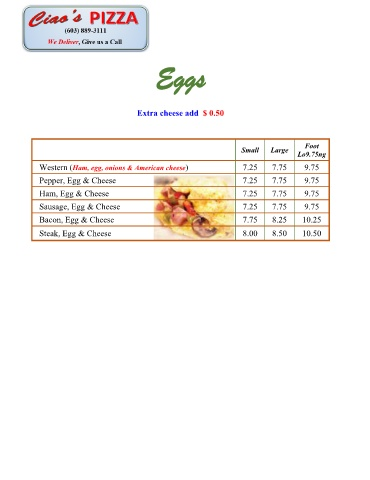
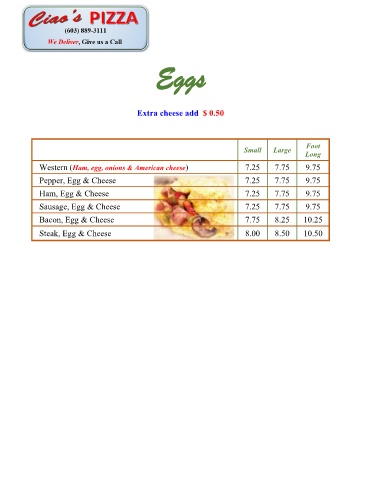
Add files via upload

Changed region(s): [[0.6243, 0.2812, 0.8919, 0.5]]

diff --git a/ciaospizzaA/menu/flip/files/basic-html/page10.html b/ciaospizzaA/menu/flip/files/basic-html/page10.html
@@ -161,18 +161,18 @@ function MM_swapImage() { //v3.0
 
 
                                                                                                       Foot
-                                                                                 Small     Large   Lo9.75ng
+                                                                                  Small    Large      Long
 
-              Western (Ham, egg, onions & American cheese)                       7.25      7.75       9.75
+              Western (Ham, egg, onions & American cheese)                        7.25      7.75      9.75
 
-              Pepper, Egg & Cheese                                               7.25      7.75       9.75
+              Pepper, Egg & Cheese                                                7.25      7.75      9.75
 
-              Ham, Egg & Cheese                                                  7.25      7.75       9.75
-              Sausage, Egg & Cheese                                              7.25      7.75       9.75
+              Ham, Egg & Cheese                                                   7.25      7.75      9.75
+              Sausage, Egg & Cheese                                               7.25      7.75      9.75
 
-              Bacon, Egg & Cheese                                                7.75      8.25      10.25
+              Bacon, Egg & Cheese                                                 7.75      8.25     10.25
 
-              Steak, Egg & Cheese                                                8.00      8.50      10.50</code></pre>
+              Steak, Egg & Cheese                                                 8.00      8.50     10.50</code></pre>
      	</div>
     
      </div>

diff --git a/ciaospizzaA/menu/flip/files/basic-html/page6.html b/ciaospizzaA/menu/flip/files/basic-html/page6.html
@@ -178,9 +178,9 @@ function MM_swapImage() { //v3.0
            American (ham, mortadella & American cheese)                              7.00      7.50      9.50
            Lumber Jack (ham, roast beef,  turkey, bacon & cheese)                    8.50      9.00      10.25
 
-           Roast Beef                                                                7.75      8.25      11.00
+           Roast Beef                                                                7.75      8.25      10.25
 
-           Turkey                                                                    7.50      8.50      10.00
+           Turkey                                                                    7.50      8.00      10.00
            Turkey, Bacon & Cheese                                                    8.00      8.50      10.50
 
            Tuna                                                                      7.50      8.00      10.00

diff --git a/ciaospizzaA/menu/flip/files/basic-html/index.html b/ciaospizzaA/menu/flip/files/basic-html/index.html
@@ -156,8 +156,8 @@ function MM_swapImage() { //v3.0
 
 
 
-                                                 Add fries for $ 2.00
-                                                Add Spicy fries for $ 2.50
+                                                 Add fries for $ 2.50
+                                                Add Spicy fries for $ 3.00
 
 
 
@@ -171,7 +171,7 @@ function MM_swapImage() { //v3.0
 
                  Mushroom Cheeseburger                                                                  6.50
 
-                 Ciao’s Special Burger  (Mushroom, Grilled Onions, Bacon, and Swiss Cheese)             7.75
+                 Ciao’s Special Burger  (Grilled Onion, mushroom, bacon, and Swiss cheese)              7.75
 
                  Chicken burger                                                                         6.00</code></pre>
      	</div>

diff --git a/ciaospizzaA/menu/flip/files/basic-html/page1.html b/ciaospizzaA/menu/flip/files/basic-html/page1.html
@@ -156,8 +156,8 @@ function MM_swapImage() { //v3.0
 
 
 
-                                                 Add fries for $ 2.00
-                                                Add Spicy fries for $ 2.50
+                                                 Add fries for $ 2.50
+                                                Add Spicy fries for $ 3.00
 
 
 
@@ -171,7 +171,7 @@ function MM_swapImage() { //v3.0
 
                  Mushroom Cheeseburger                                                                  6.50
 
-                 Ciao’s Special Burger  (Mushroom, Grilled Onions, Bacon, and Swiss Cheese)             7.75
+                 Ciao’s Special Burger  (Grilled Onion, mushroom, bacon, and Swiss cheese)              7.75
 
                  Chicken burger                                                                         6.00</code></pre>
      	</div>

diff --git a/ciaospizzaA/menu/flip/files/basic-html/page14.html b/ciaospizzaA/menu/flip/files/basic-html/page14.html
@@ -167,7 +167,7 @@ function MM_swapImage() { //v3.0
              Chicken Wings                                    (10 PC)   8.25  (14 PC) 11.50  (18 PC) 14.50
 
              Buffalo Wings                                    (10 PC)   8.75  (14 PC) 12.25  (18 PC) 15.00
-             BBQ Chicken Wings                                (10 PC)   8.75  (14 PC) 12.00  (18 PC) 15.00</code></pre>
+             BBQ Chicken Wings                                (10 PC)   8.75  (14 PC) 12.25  (18 PC) 15.00</code></pre>
      	</div>
     
      </div>

diff --git a/ciaospizzaA/menu/flip/files/basic-html/page2.html b/ciaospizzaA/menu/flip/files/basic-html/page2.html
@@ -156,6 +156,7 @@ function MM_swapImage() { //v3.0
 
 
 
+                                               Toppings same as Pizza
 
               Cheese   (Ricotta, sauce & pizza cheese)                                                9.00
 
